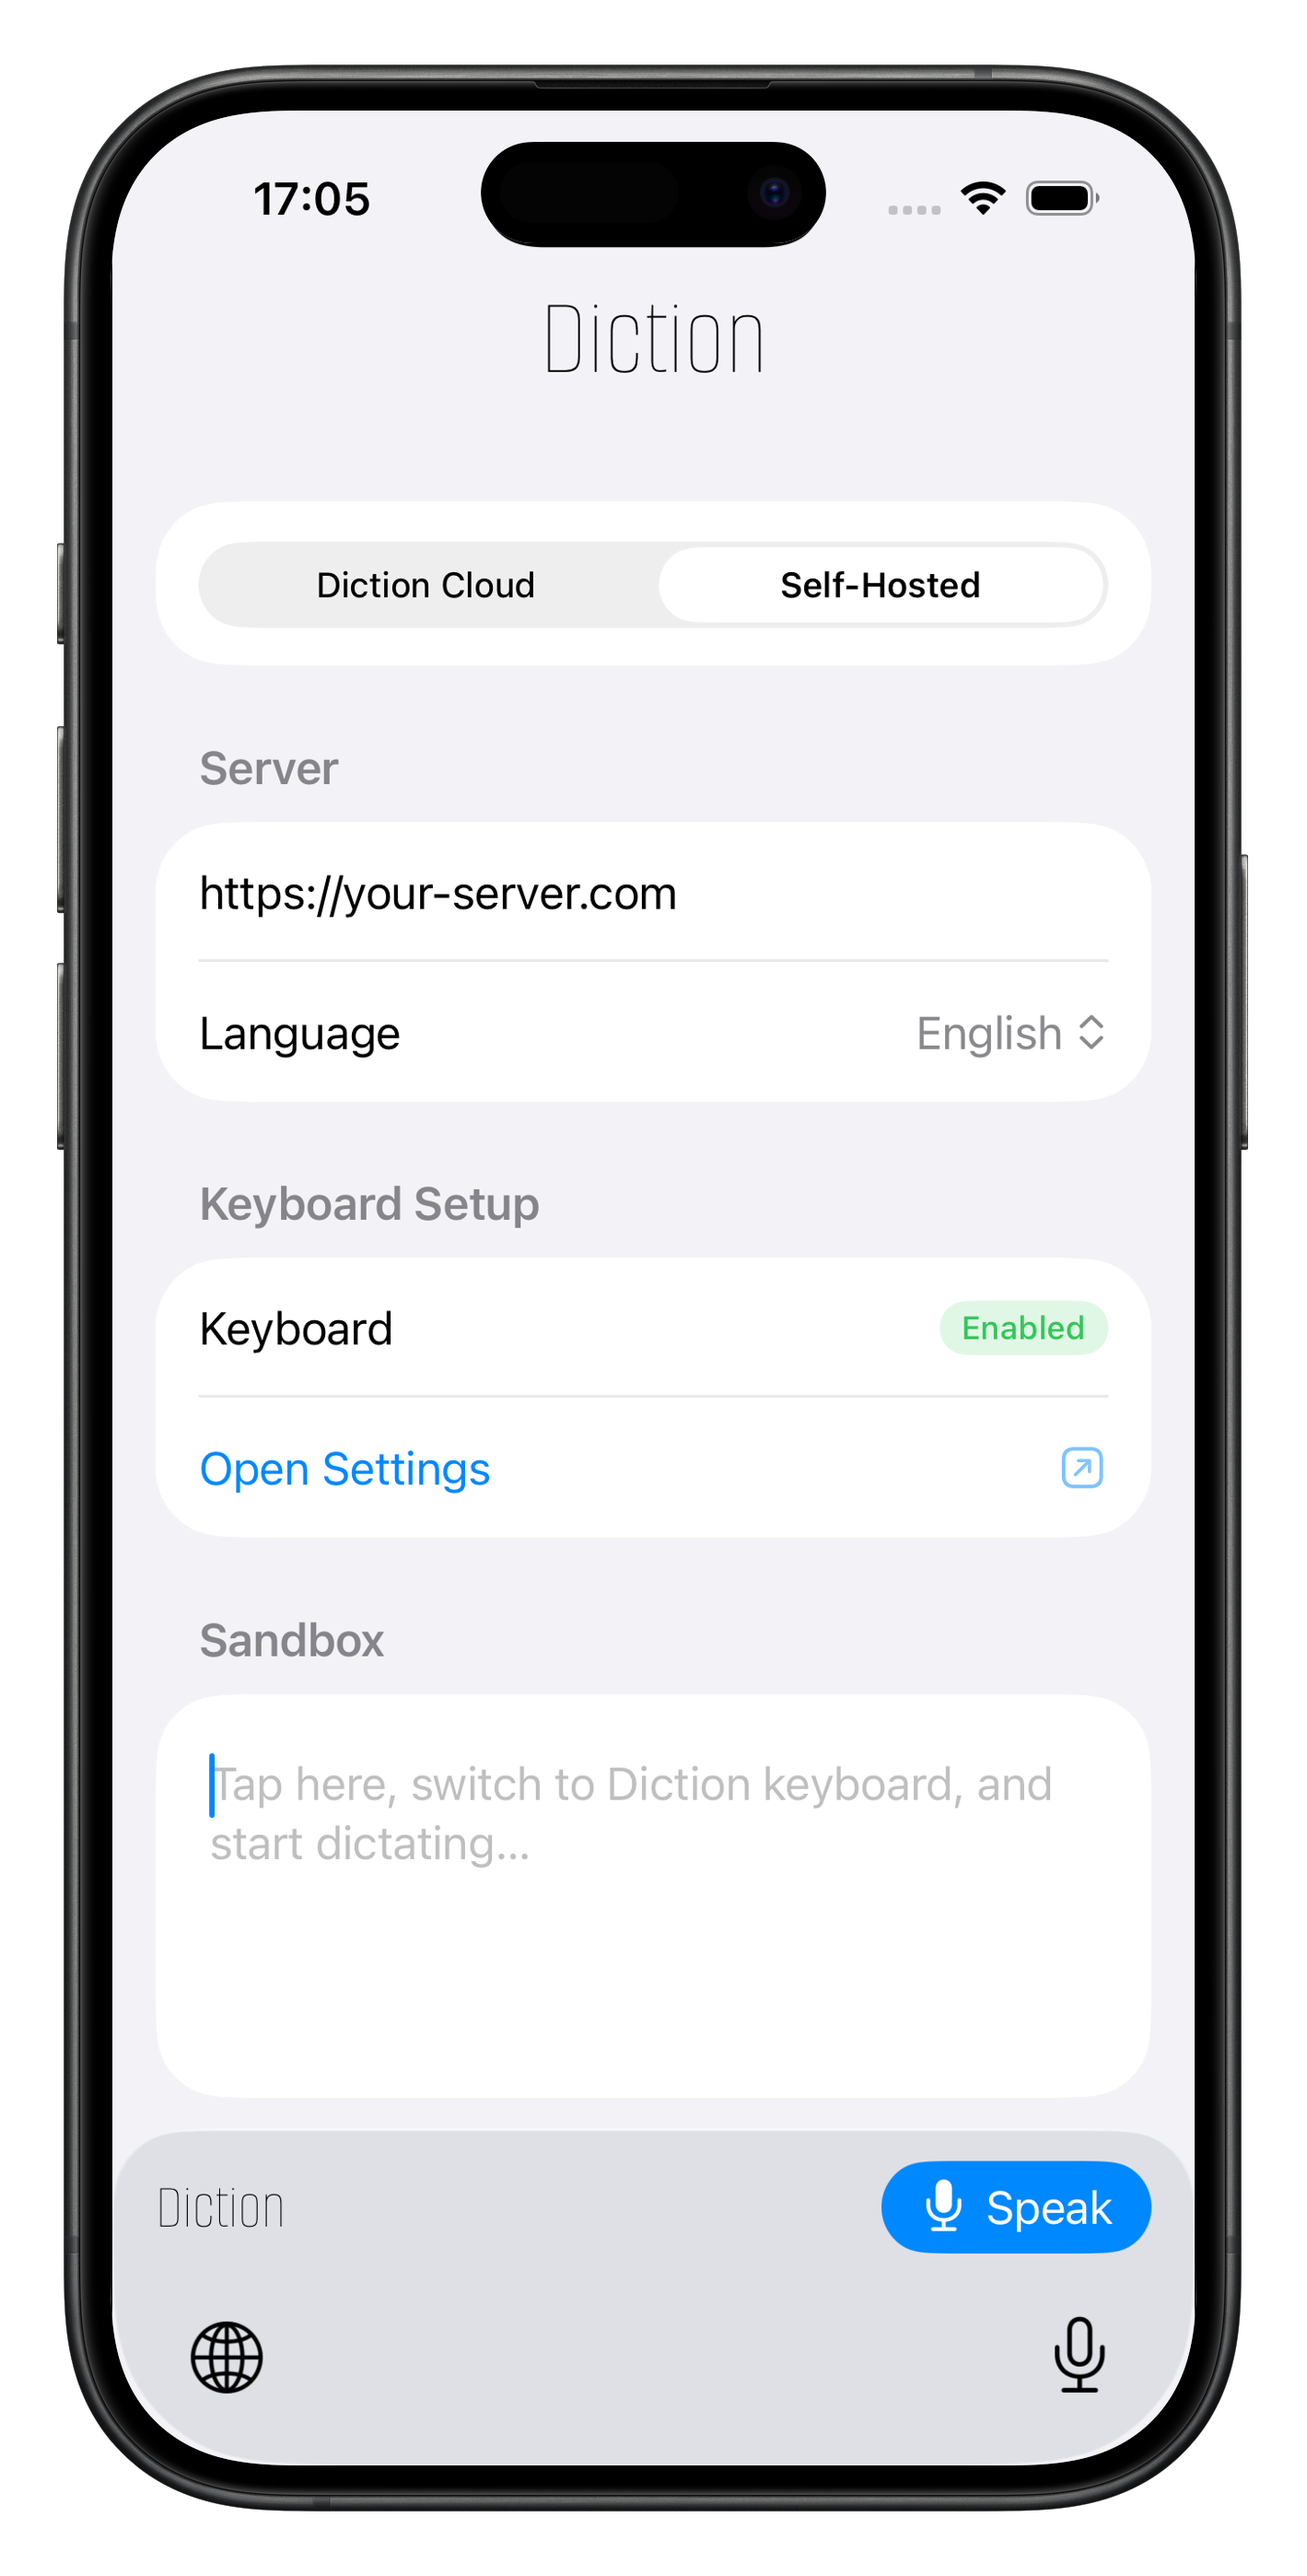
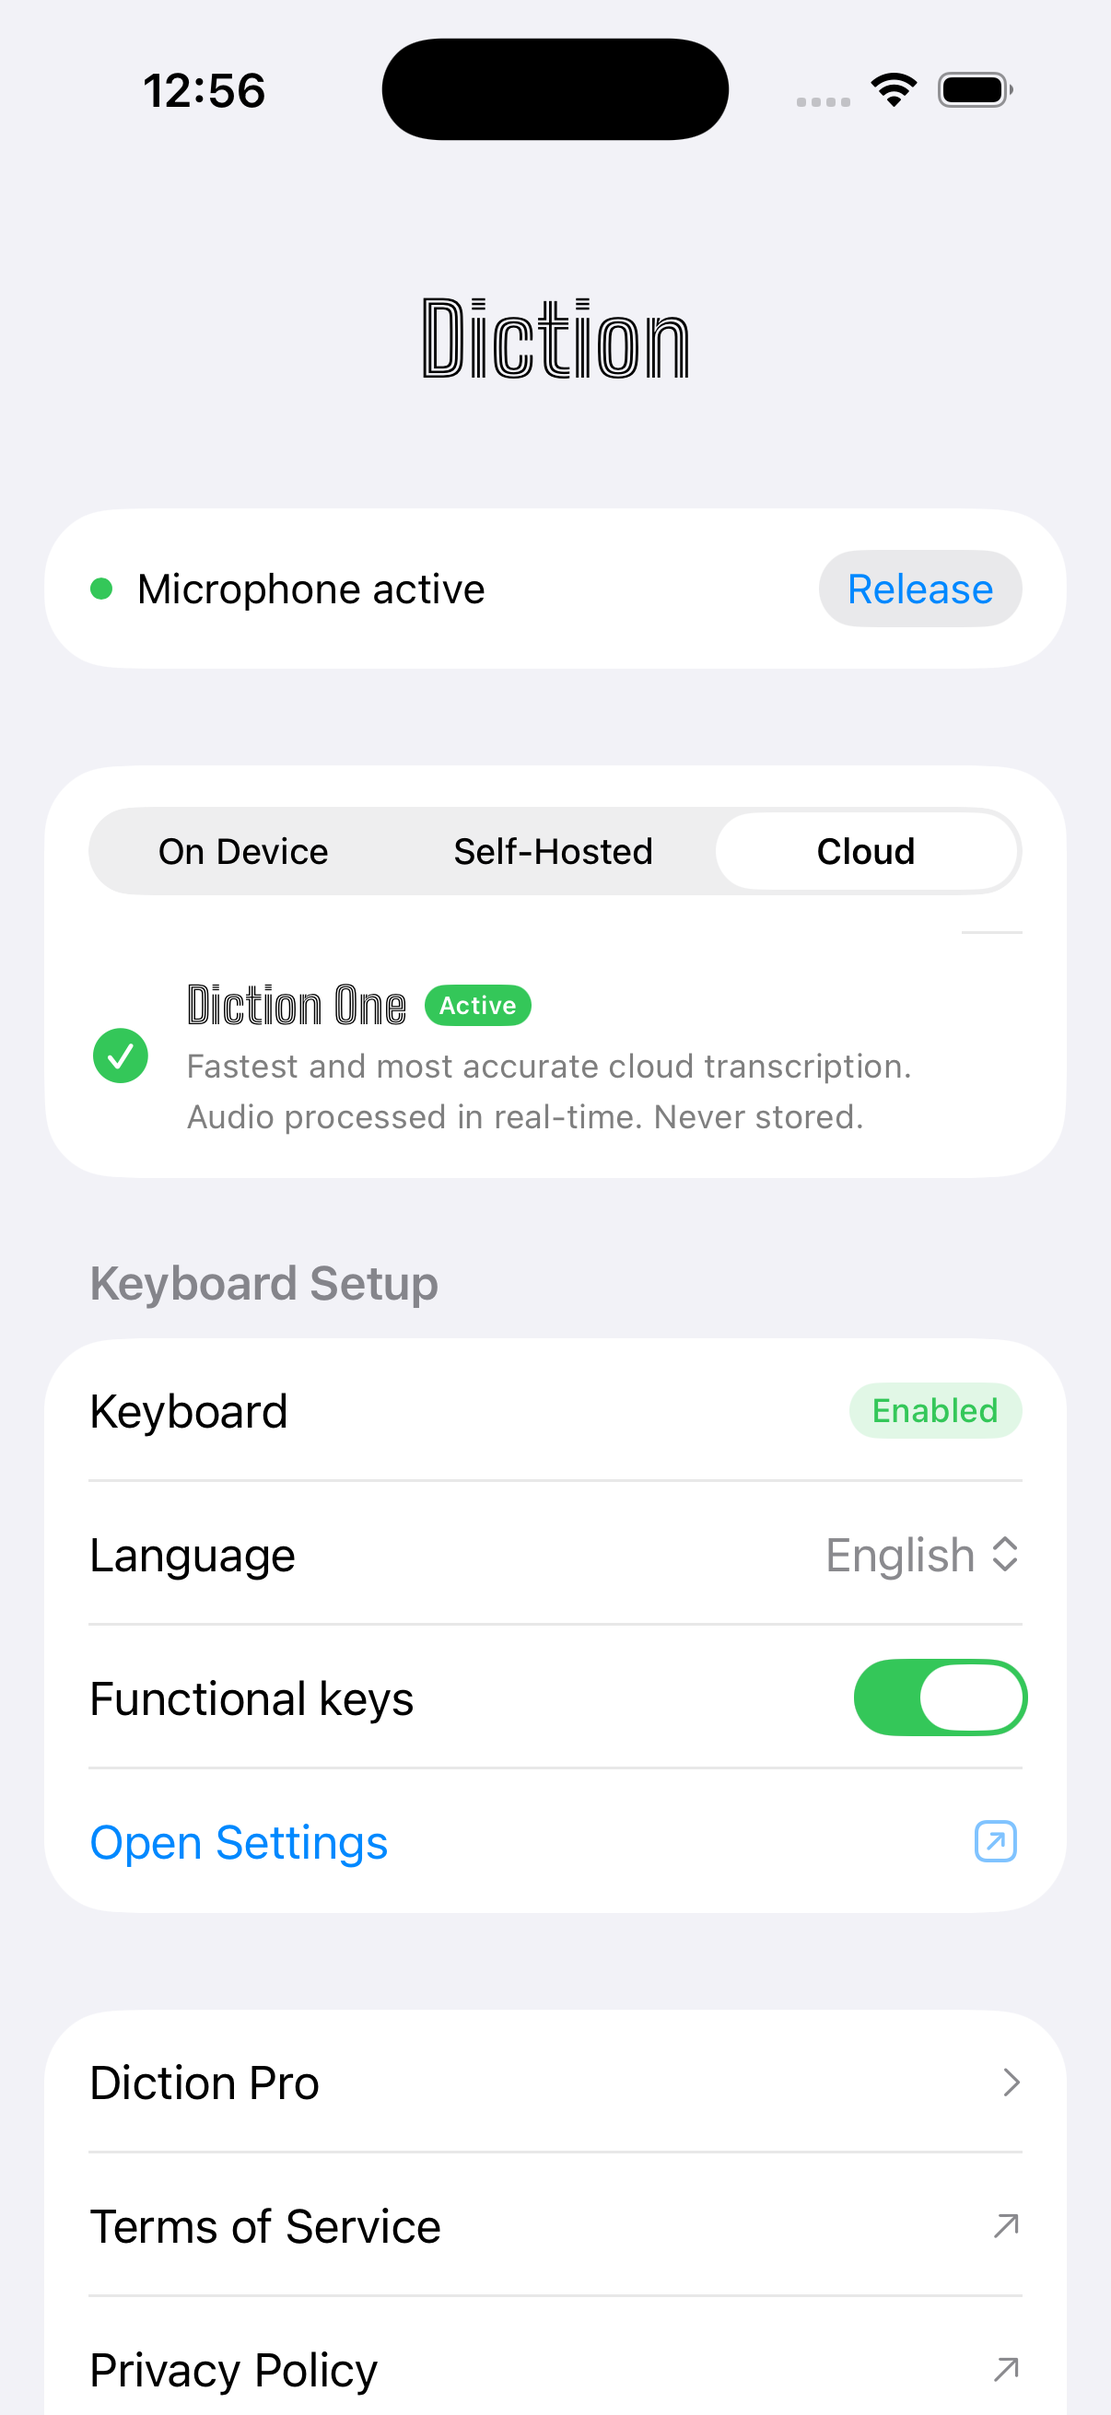
Update README and screenshots to match current app
- Rewrite README: lead with on-device free mode, rename Cloud to Diction One,
  remove Wispr Flow comparisons, enable App Store badge
- Replace settings screenshot with current UI (three-tab layout)
- Remove outdated recording screenshot

diff --git a/README.md b/README.md
@@ -5,11 +5,14 @@
     <img src="assets/logo-dark.png" alt="Diction" height="80">
   </picture>
   <br><br>
-  <strong>The free, open-source alternative to <a href="https://wisprflow.ai">Wispr Flow</a>.</strong><br>Self-hosted speech-to-text keyboard for iOS.
+  <strong>Voice keyboard for iPhone. You talk. We type.</strong><br>Free and open-source speech-to-text keyboard for iOS.
 </p>
 
 <p align="center">
-  <!-- <a href="https://apps.apple.com/app/diction/id000000000"><img src="https://developer.apple.com/assets/elements/badges/download-on-the-app-store.svg" alt="Download on the App Store" height="40"></a> -->
+  <a href="https://apps.apple.com/app/diction-voice-keyboard/id6759807364"><img src="https://developer.apple.com/assets/elements/badges/download-on-the-app-store.svg" alt="Download on the App Store" height="40"></a>
+</p>
+
+<p align="center">
   <a href="https://diction.one">Website</a> &bull;
   <a href="docs/self-hosting.md">Self-Hosting Guide</a> &bull;
   <a href="docs/privacy.md">Privacy Policy</a>
@@ -17,86 +20,91 @@
 
 <p align="center">
   <img src="https://img.shields.io/github/license/omachala/diction" alt="License">
-  <!-- <img src="https://img.shields.io/github/v/release/omachala/diction" alt="Release"> -->
 </p>
 
 ---
 
 <p align="center">
-  <img src="assets/screenshot-settings.png" width="280" alt="Diction settings screen">&nbsp;&nbsp;
-  <img src="assets/screenshot-recording.png" width="280" alt="Diction recording screen">
+  <img src="assets/screenshot-settings.png" width="280" alt="Diction settings screen">
 </p>
 
 ## Why Diction?
 
-Voice-to-text keyboards like [Wispr Flow](https://wisprflow.ai) cost **$15/month** and send your audio to their cloud. Apple's built-in dictation is free but unreliable.
+- **Free and unlimited on-device mode** — no subscription, no word limits, no catch. Works offline.
+- **Self-hosted mode** — point Diction at your own Whisper server. Your audio stays on your network.
+- **Privacy first** — no analytics, no tracking, no telemetry. Zero third-party SDKs. Nothing is stored or shared.
+- **Model agnostic** — works with any OpenAI-compatible endpoint. Whisper tiny, large-v3, distil, fine-tuned models. You choose.
+- **Open source infrastructure** — the server setup is right here. Inspect it, modify it, contribute to it.
+- **99 languages** — powered by Whisper's multilingual models.
 
-**Diction is different:**
-
-- **Self-hosted is free** - no subscription, no word limits, no trial that expires. Bring your own server.
-- **Your server, your data** - audio goes to a Whisper server you run. Not our cloud. Not anyone's cloud. Your network.
-- **Open source infrastructure** - the server setup is right here. Inspect it, modify it, contribute to it.
-- **Model agnostic** - point it at any OpenAI-compatible endpoint. Whisper tiny, large-v3, distil, fine-tuned models, future models. You choose.
-- **Zero-dependency iOS app** - pure Swift, no third-party SDKs, no analytics, no tracking. Fully auditable.
-
-Don't want to self-host? **Diction Cloud** provides the same experience with zero setup.
-
-> **Think of it like [Bitwarden](https://bitwarden.com)** - free and self-hosted for those who want control, with a hosted cloud option for convenience.
+Want cloud accuracy without self-hosting? **Diction One** ($5.99/month) provides the same experience with zero setup.
 
 ## How It Works
 
-1. Run a Whisper container on any machine (home server, NAS, cloud VM, Raspberry Pi)
+### On-Device (Free, No Setup)
+
+Install the app, add the keyboard, and start dictating. On-device transcription works offline with no server required.
+
+### Self-Hosted
+
+1. Run a Whisper container on any machine (home server, NAS, cloud VM)
 2. Make it reachable from your phone (local IP, reverse proxy, or [Cloudflare Tunnel](https://developers.cloudflare.com/cloudflare-one/connections/connect-networks/))
 3. Paste the URL into the Diction app
 4. Switch to the Diction keyboard in any app → tap mic → speak → text appears
 
-That's the entire setup. Three commands to start the server:
+Three commands to start the server:
 
 ```bash
 git clone https://github.com/omachala/diction.git
 cd diction
-docker compose up - d whisper-small
+docker compose up -d whisper-small
 ```
 
 Whisper API is now running at `http://<your-server-ip>:9002`. Done.
 
-## How is this different from...
+### Connecting the app
 
-<table width="100%">
-<tr><th></th><th>Diction</th><th>Wispr Flow</th><th>Apple Dictation</th></tr>
-<tr><td><strong>Price</strong></td><td>Free (self-hosted)</td><td>$15/month</td><td>Free</td></tr>
-<tr><td><strong>Audio stays on your network</strong></td><td>✅</td><td>❌ Cloud</td><td>✅</td></tr>
-<tr><td><strong>Open source server</strong></td><td>✅</td><td>❌</td><td>❌</td></tr>
-<tr><td><strong>iOS keyboard</strong></td><td>✅</td><td>✅</td><td>✅ Built-in</td></tr>
-<tr><td><strong>Model agnostic</strong></td><td>✅ Any model, any URL</td><td>❌ Locked in</td><td>❌ Locked in</td></tr>
-<tr><td><strong>Zero third-party SDKs</strong></td><td>✅</td><td>❌</td><td>N/A</td></tr>
-</table>
+In the Diction app, go to the **Self-Hosted** tab and paste your server URL into the **Endpoint URL** field:
 
-Diction is pure transcription: what you say is what you get. No AI rewriting, no filler word removal. If you want that, paid alternatives exist. Diction's trade-off is freedom, privacy, and cost.
+```
+http://<your-server-ip>:<port>
+```
+
+Each model runs on its own port:
+
+| Model | Port | Endpoint URL |
+|-------|------|-------------|
+| `whisper-tiny` | 9001 | `http://192.168.1.100:9001` |
+| `whisper-small` | 9002 | `http://192.168.1.100:9002` |
+| `whisper-medium` | 9003 | `http://192.168.1.100:9003` |
+| `whisper-large` | 9004 | `http://192.168.1.100:9004` |
+| `whisper-distil-large` | 9005 | `http://192.168.1.100:9005` |
+
+Replace `192.168.1.100` with your server's actual IP. A green dot in the app confirms the endpoint is reachable.
 
 ## Models
 
-Diction is model agnostic. It works with **any [OpenAI-compatible](https://platform.openai.com/docs/api-reference/audio/createTranscription) speech-to-text endpoint** - public models, private models, fine-tuned models, future models. You're not locked into anything.
+Diction is model agnostic. It works with **any [OpenAI-compatible](https://platform.openai.com/docs/api-reference/audio/createTranscription) speech-to-text endpoint**.
 
-This repo includes a Docker Compose setup with popular [faster-whisper](https://github.com/fedirz/faster-whisper-server) models to get you started:
+This repo includes a Docker Compose setup with popular [faster-whisper](https://github.com/fedirz/faster-whisper-server) models:
 
 ```
-docker compose up - d whisper-tiny          # port 9001 - ~350 MB RAM, ~1-2s
-docker compose up - d whisper-small         # port 9002 - ~800 MB RAM, ~3-4s  ← recommended
-docker compose up - d whisper-medium        # port 9003 - ~1.8 GB RAM, ~8-12s
-docker compose up - d whisper-large         # port 9004 - ~3.5 GB RAM, ~20-30s
-docker compose up - d whisper-distil-large  # port 9005 - ~2 GB RAM, ~4-6s
+docker compose up -d whisper-tiny          # port 9001 - ~350 MB RAM, ~1-2s
+docker compose up -d whisper-small         # port 9002 - ~800 MB RAM, ~3-4s  ← recommended
+docker compose up -d whisper-medium        # port 9003 - ~1.8 GB RAM, ~8-12s
+docker compose up -d whisper-large         # port 9004 - ~3.5 GB RAM, ~20-30s
+docker compose up -d whisper-distil-large  # port 9005 - ~2 GB RAM, ~4-6s
 ```
 
-But you can point Diction at anything: [whisper.cpp](https://github.com/ggerganov/whisper.cpp), OpenAI's API, a custom fine-tuned model for your language or domain, or any future model that speaks the same protocol. If it has an `/v1/audio/transcriptions` endpoint, Diction works with it.
+You can also point Diction at [whisper.cpp](https://github.com/ggerganov/whisper.cpp), OpenAI's API, or any future model that speaks the same protocol.
 
 ## No Public IP?
 
 No problem. You don't need to open ports on your router:
 
-- **[Cloudflare Tunnel](https://developers.cloudflare.com/cloudflare-one/connections/connect-networks/)** - free, outbound-only connection to Cloudflare's edge. No port forwarding needed.
-- **[Tailscale](https://tailscale.com/)** - free WireGuard mesh VPN. Install on server + phone, connect from anywhere.
-- **[ngrok](https://ngrok.com/)** - instant public URL, great for testing.
+- **[Cloudflare Tunnel](https://developers.cloudflare.com/cloudflare-one/connections/connect-networks/)** — free, outbound-only connection. No port forwarding needed.
+- **[Tailscale](https://tailscale.com/)** — free WireGuard mesh VPN. Install on server + phone, connect from anywhere.
+- **[ngrok](https://ngrok.com/)** — instant public URL, great for testing.
 
 See the [Self-Hosting Guide](docs/self-hosting.md) for detailed instructions.
 
@@ -104,21 +112,18 @@ See the [Self-Hosting Guide](docs/self-hosting.md) for detailed instructions.
 
 This is a keyboard extension. We take privacy seriously:
 
+- **On-device**: Everything stays on your phone. No network needed.
 - **Self-hosted**: Audio goes only to your server. Full stop.
-- **Cloud mode**: Audio is processed and immediately discarded. Not stored, not used for training.
+- **Diction One**: Audio is processed and immediately discarded. Not stored, not used for training.
 - **No analytics, no tracking, no telemetry.** The app contains zero third-party SDKs.
-- **Full Access** is required by iOS for network - the keyboard needs to reach the Whisper endpoint. No keylogging, no clipboard access.
+- **Full Access** is required by iOS for network — the keyboard needs to reach the transcription endpoint. No keylogging, no clipboard access.
 
-Read the full [Privacy Policy](docs/privacy.md).
+Read the full [Privacy Policy](https://diction.one/privacy).
 
 ## Requirements
 
 - **iOS 17.0+** (iPhone)
 - For self-hosting: any machine that can run Docker
-
-## Diction Cloud
-
-Don't want to self-host? **Diction Cloud** is a hosted alternative - same accuracy, zero setup, no server to maintain. Priced to be cheaper than running your own VPS. See [diction.one](https://diction.one) for details.
 
 ## Contributing
 
@@ -126,6 +131,6 @@ We welcome contributions to the self-hosting infrastructure, documentation, and 
 
 ## License
 
-MIT - see [LICENSE](LICENSE).
+MIT — see [LICENSE](LICENSE).
 
 The iOS app is distributed via the App Store. This repository contains the self-hosting infrastructure and documentation.
